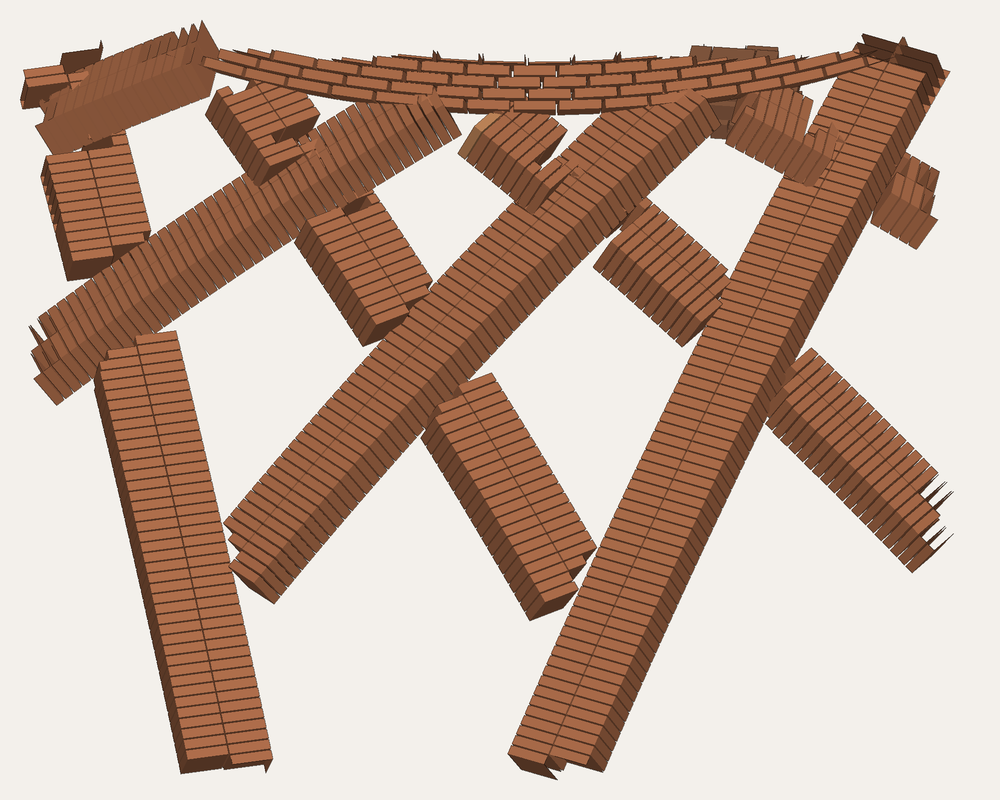
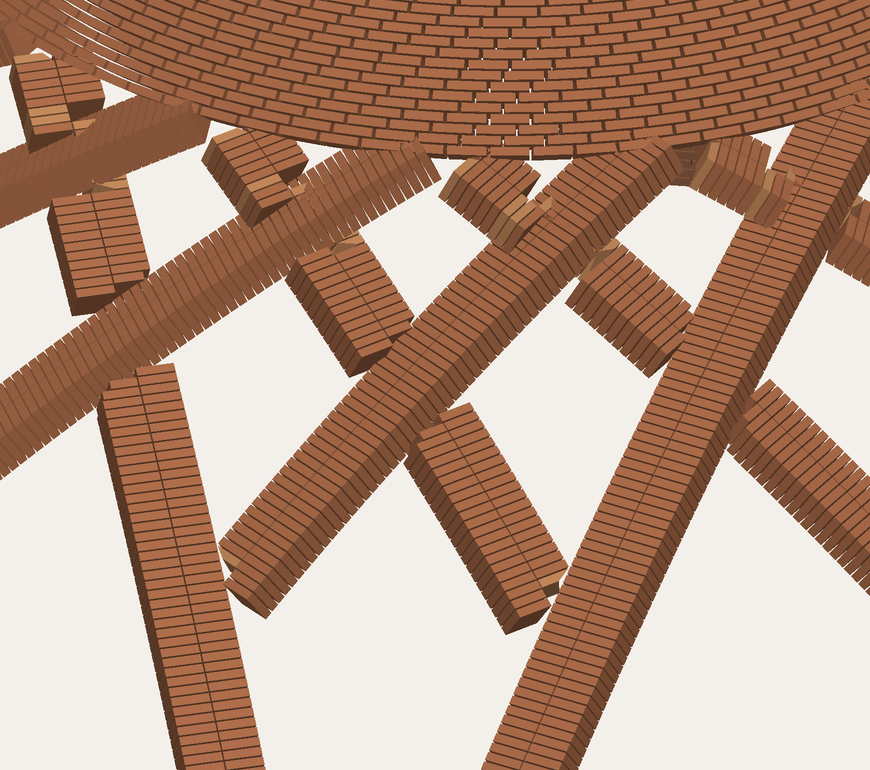
Karbandi bricks: side-rib bricks follow the passing rib's face even where it only clips them (bilinear mitre), no stepped ends
Claude-Session: https://claude.ai/code/session_01WZz9U86PiQQhB9v6wZTtqs

diff --git a/src/MasonryCore/KarbandiBricks.cs b/src/MasonryCore/KarbandiBricks.cs
@@ -244,35 +244,36 @@ namespace Masonry.Core
                         var p0 = b.Center + b.YAxis * (sy * b.Depth / 2) + zAx * (sz * b.Height / 2);
                         xe[a, c] = -Vec3.Dot(p0 - fq, fn) / xn;   // where this edge meets the face
                     }
-                    double A = (xe[0, 0] + xe[0, 1] + xe[1, 0] + xe[1, 1]) / 4;
-                    double By = (xe[1, 0] + xe[1, 1] - xe[0, 0] - xe[0, 1]) / 4, Bz = (xe[0, 1] + xe[1, 1] - xe[0, 0] - xe[1, 0]) / 4;
+                    // each edge stops where it meets the face, or at the brick's own end if the face misses it there
                     double half = b.Length / 2;
-                    double spread = Math.Abs(By) + Math.Abs(Bz);
-                    double minKept = keepStart ? (A - spread) - (-half) : half - (A + spread);
-                    // the face must cross this brick wholly (every edge meets it inside the brick); otherwise square cut
-                    bool partial = keepStart ? A + spread > half : A - spread < -half;
-                    if (minKept < 40 || partial)
-                    {   // too oblique for one cut brick (it would end in a knife edge): cut square at the face's nearest point,
-                        // the small wedge left is packed with mortar and brick chips, as on site
-                        double cutAt = keepStart ? A - Math.Abs(By) - Math.Abs(Bz) : A + Math.Abs(By) + Math.Abs(Bz);
-                        double s0 = keepStart ? -half : Math.Max(-half, cutAt), s1 = keepStart ? Math.Min(half, cutAt) : half;
+                    var ce = new double[2, 2];
+                    for (int a = 0; a < 2; a++) for (int c = 0; c < 2; c++)
+                        ce[a, c] = Math.Max(-half, Math.Min(half, xe[a, c]));
+                    double cMax = Math.Max(Math.Max(ce[0, 0], ce[0, 1]), Math.Max(ce[1, 0], ce[1, 1]));
+                    double cMin = Math.Min(Math.Min(ce[0, 0], ce[0, 1]), Math.Min(ce[1, 0], ce[1, 1]));
+                    double minKept = keepStart ? cMin + half : half - cMax;
+                    if (minKept < 30)
+                    {   // an edge would end in a knife: cut square at the face's nearest point; the wedge is packed with mortar
+                        double s0 = keepStart ? -half : cMax, s1 = keepStart ? cMin : half;
                         if (s1 - s0 < 25) { keep[i] = false; continue; }
                         b.Center = b.Center + b.XAxis * ((s0 + s1) / 2); b.Length = s1 - s0; b.IsCut = true;
                         continue;
                     }
+                    // bilinear fit of the four edge ends: exact for a face crossing the whole brick, and it follows the face
+                    // as far as the brick goes where it only clips a corner (no gap, nothing poking through)
+                    double F0 = (ce[0, 0] + ce[0, 1] + ce[1, 0] + ce[1, 1]) / 4, FY = (ce[1, 0] + ce[1, 1] - ce[0, 0] - ce[0, 1]) / 4,
+                           FZ = (ce[0, 1] + ce[1, 1] - ce[0, 0] - ce[1, 0]) / 4, FW = (ce[0, 0] + ce[1, 1] - ce[0, 1] - ce[1, 0]) / 4;
                     if (keepStart)
                     {
-                        double E = Math.Min(half, A + Math.Abs(By) + Math.Abs(Bz)), start = -half;
-                        if (E - start < 25) { keep[i] = false; continue; }
+                        double E = cMax, start = -half;
                         b.Center = b.Center + b.XAxis * ((E + start) / 2); b.Length = E - start;
-                        b.MitreEnd0 = A - E; b.MitreEndY = By; b.MitreEndZ = Bz;
+                        b.MitreEnd0 = F0 - E; b.MitreEndY = FY; b.MitreEndZ = FZ; b.MitreEndW = FW;
                     }
                     else
                     {
-                        double S = Math.Max(-half, A - Math.Abs(By) - Math.Abs(Bz)), end = half;
-                        if (end - S < 25) { keep[i] = false; continue; }
+                        double S = cMin, end = half;
                         b.Center = b.Center + b.XAxis * ((S + end) / 2); b.Length = end - S;
-                        b.MitreStart0 = A - S; b.MitreStartY = By; b.MitreStartZ = Bz;
+                        b.MitreStart0 = F0 - S; b.MitreStartY = FY; b.MitreStartZ = FZ; b.MitreStartW = FW;
                     }
                     b.IsCut = true;
                 }

diff --git a/src/MasonryCore/BrickPlacement.cs b/src/MasonryCore/BrickPlacement.cs
@@ -73,14 +73,17 @@ namespace Masonry.Core
         public double MitreStart0 { get; set; }
         public double MitreStartY { get; set; }
         public double MitreStartZ { get; set; }
-        public bool IsMitred => Math.Abs(MitreEnd0) + Math.Abs(MitreEndY) + Math.Abs(MitreEndZ) + Math.Abs(MitreStart0) + Math.Abs(MitreStartY) + Math.Abs(MitreStartZ) > 0.1;
+        /// <summary>Twist terms (· sy · sz): where the face only crosses part of the brick, its cut follows the face up to the brick's end.</summary>
+        public double MitreEndW { get; set; }
+        public double MitreStartW { get; set; }
+        public bool IsMitred => Math.Abs(MitreEnd0) + Math.Abs(MitreEndY) + Math.Abs(MitreEndZ) + Math.Abs(MitreEndW) + Math.Abs(MitreStart0) + Math.Abs(MitreStartY) + Math.Abs(MitreStartZ) + Math.Abs(MitreStartW) > 0.1;
         /// <summary>A corner of the brick (sx, sy, sz each ±1), with tapers, angled cuts and mitres applied.</summary>
         public Vec3 Corner(int sx, int sy, int sz)
         {
             var z = Vec3.Cross(XAxis, YAxis).Unit();
             double hf = Length / 2, hb = Math.Max(1, Length - Taper) / 2, hx = sy < 0 ? hb : hf;
-            double ex = sx > 0 ? hx - TrimEnd * sz / 2 + MitreEnd0 + MitreEndY * sy + MitreEndZ * sz
-                               : -hx + TrimStart * sz / 2 + MitreStart0 + MitreStartY * sy + MitreStartZ * sz;
+            double ex = sx > 0 ? hx - TrimEnd * sz / 2 + MitreEnd0 + MitreEndY * sy + MitreEndZ * sz + MitreEndW * sy * sz
+                               : -hx + TrimStart * sz / 2 + MitreStart0 + MitreStartY * sy + MitreStartZ * sz + MitreStartW * sy * sz;
             return Center + XAxis * ex + YAxis * (sy * Depth / 2) + z * (sz * Height / 2);
         }
         /// <summary>Angle of the steepest end cut from vertical, degrees (0 = square end).</summary>

diff --git a/src/MasonryGH/Convert.cs b/src/MasonryGH/Convert.cs
@@ -36,8 +36,8 @@ namespace Masonry.GH
             double k = 1.0 / ToMm;
             double hf = b.Length * k / 2, hb = Math.Max(1, b.Length - b.Taper) * k / 2, hy = b.Depth * k / 2, hz = b.Height * k / 2;
             double ts = b.TrimStart * k / 2, te = b.TrimEnd * k / 2;   // angled end cuts: + = shorter at the top
-            double E(int sy, int sz) => (b.MitreEnd0 + b.MitreEndY * sy + b.MitreEndZ * sz) * k;      // mitred ends
-            double S(int sy, int sz) => (b.MitreStart0 + b.MitreStartY * sy + b.MitreStartZ * sz) * k;
+            double E(int sy, int sz) => (b.MitreEnd0 + b.MitreEndY * sy + b.MitreEndZ * sz + b.MitreEndW * sy * sz) * k;      // mitred ends
+            double S(int sy, int sz) => (b.MitreStart0 + b.MitreStartY * sy + b.MitreStartZ * sz + b.MitreStartW * sy * sz) * k;
             return new[]
             {
                 new Point3d(-hb - ts + S(-1, -1), -hy, -hz), new Point3d(hb + te + E(-1, -1), -hy, -hz), new Point3d(hf + te + E(1, -1), hy, -hz), new Point3d(-hf - ts + S(1, -1), hy, -hz),

diff --git a/src/MasonryGH/Util.cs b/src/MasonryGH/Util.cs
@@ -96,8 +96,8 @@ namespace Masonry.GH
                 {
                     double hx = sy < 0 ? hb : hf;
                     // angled end cuts (bricks cut to the back of an arch)
-                    double ex = sx > 0 ? sx * hx - b.TrimEnd * sz / 2 + b.MitreEnd0 + b.MitreEndY * sy + b.MitreEndZ * sz
-                                       : sx * hx + b.TrimStart * sz / 2 + b.MitreStart0 + b.MitreStartY * sy + b.MitreStartZ * sz;
+                    double ex = sx > 0 ? sx * hx - b.TrimEnd * sz / 2 + b.MitreEnd0 + b.MitreEndY * sy + b.MitreEndZ * sz + b.MitreEndW * sy * sz
+                                       : sx * hx + b.TrimStart * sz / 2 + b.MitreStart0 + b.MitreStartY * sy + b.MitreStartZ * sz + b.MitreStartW * sy * sz;
                     var p = b.Center + x * ex + y * (sy * hy) + z * (sz * hz);
                     c[i++] = new Point3f((float)(p.X * k), (float)(p.Y * k), (float)(p.Z * k));
                 }

diff --git a/src/MasonryGH/V03Components.cs b/src/MasonryGH/V03Components.cs
@@ -255,7 +255,7 @@ namespace Masonry.GH
                 foreach (var b in wall.Bricks)
                 {
                     string key = $"{layer}_{b.Length:0}x{b.Depth:0}x{b.Height:0}" + (b.Taper > 0.5 ? $"_t{b.Taper:0}" : "") + (Math.Abs(b.TrimStart) + Math.Abs(b.TrimEnd) > 0.5 ? $"_s{b.TrimStart:0}_{b.TrimEnd:0}" : "")
-                                 + (b.IsMitred ? $"_m{b.MitreStart0:0}_{b.MitreStartY:0}_{b.MitreStartZ:0}_{b.MitreEnd0:0}_{b.MitreEndY:0}_{b.MitreEndZ:0}" : "");
+                                 + (b.IsMitred ? $"_m{b.MitreStart0:0}_{b.MitreStartY:0}_{b.MitreStartZ:0}_{b.MitreEnd0:0}_{b.MitreEndY:0}_{b.MitreEndZ:0}_{b.MitreStartW:0}_{b.MitreEndW:0}" : "");
                     if (!defs.TryGetValue(key, out int defIndex))
                     {
                         var existing = doc.InstanceDefinitions.Find(key);
